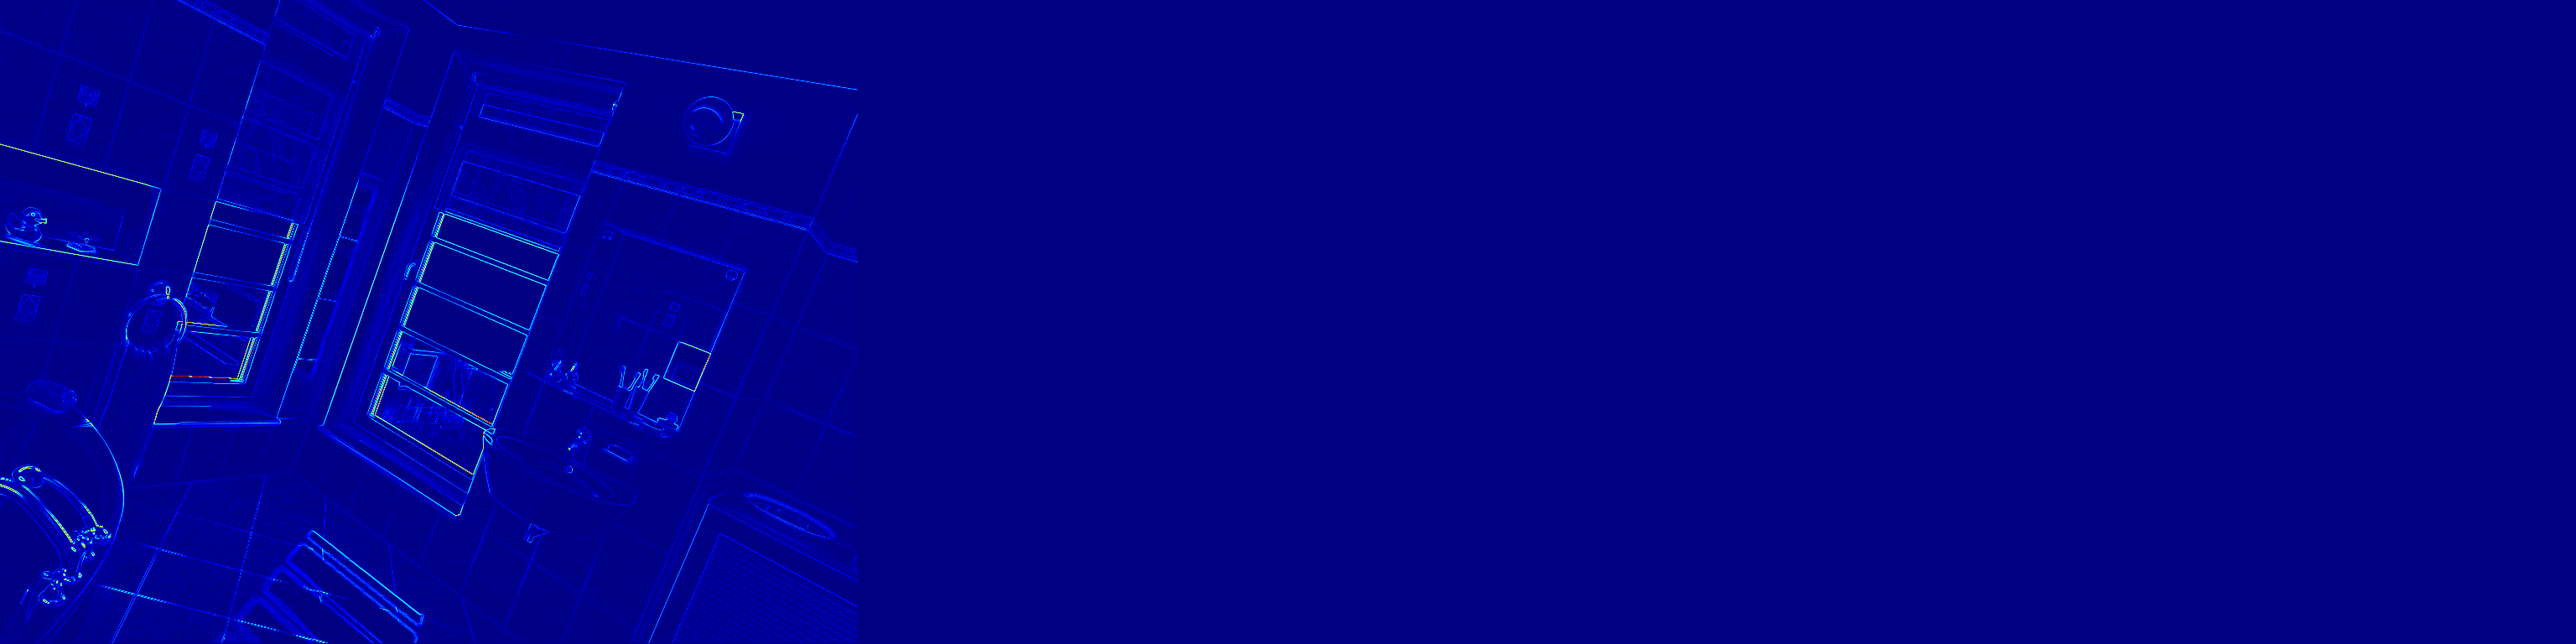
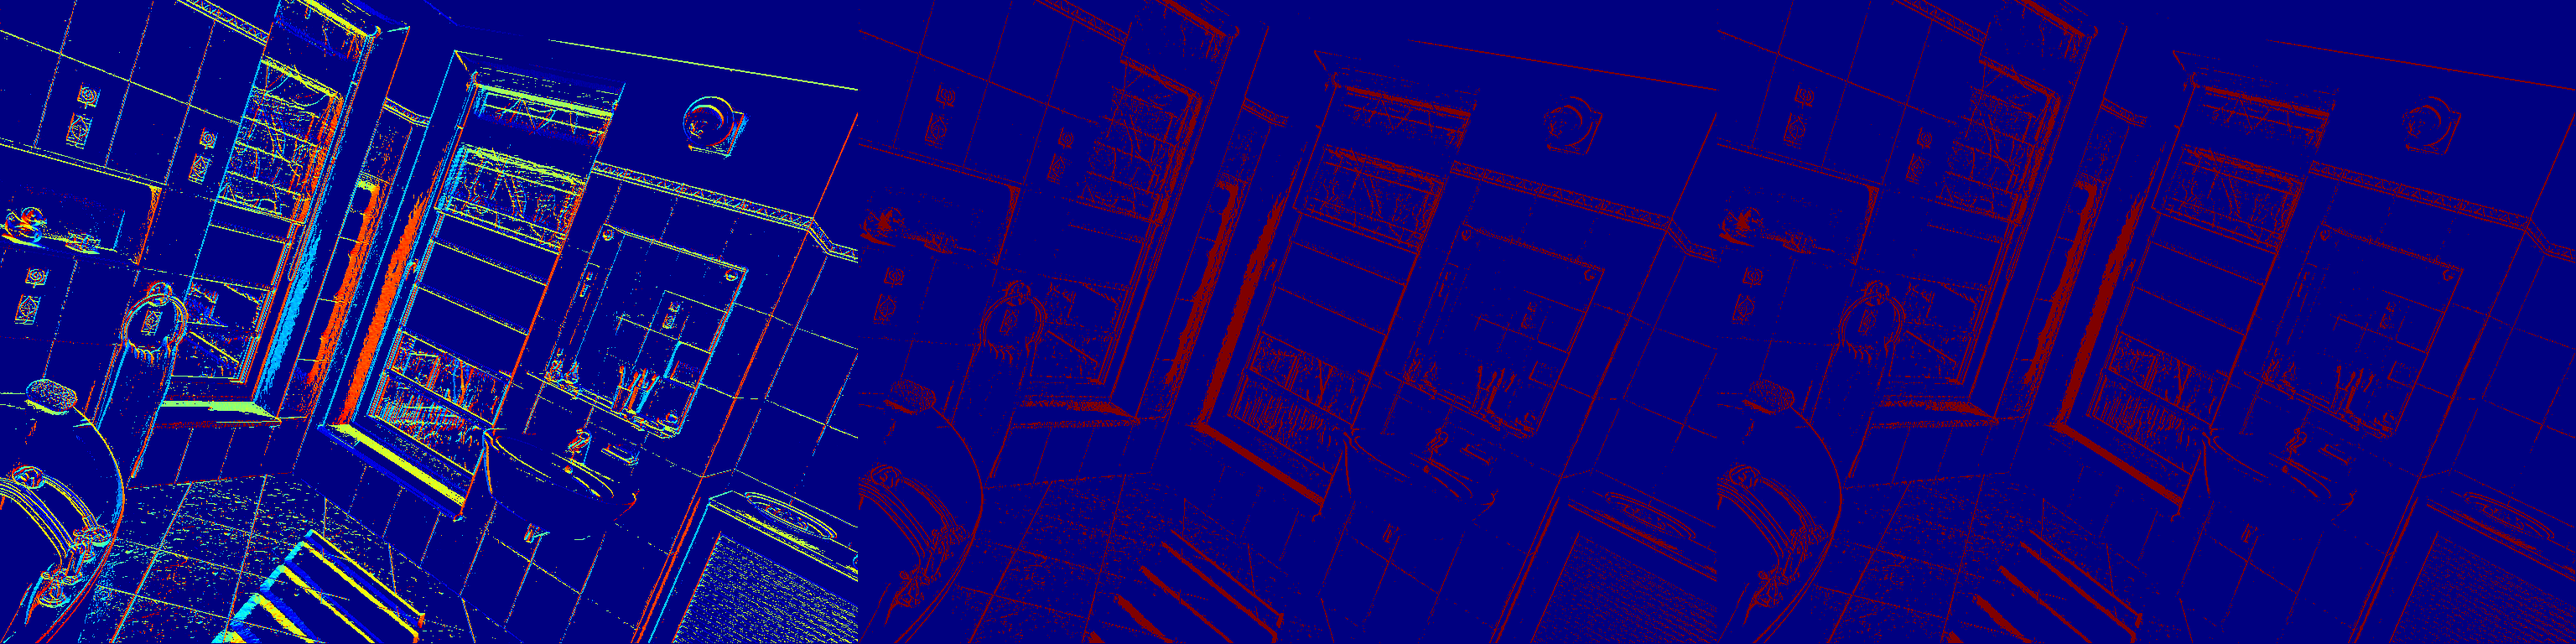
Use angle back

diff --git a/test/test_angle_gradient.cpp b/test/test_angle_gradient.cpp
@@ -9,15 +9,26 @@
 using namespace std::chrono;
 
 std::unique_ptr<GradientCalculator> gradientCalculator;
-cv::Mat grad_x, grad_y, bad_pixels;
+cv::Mat bad_pixels;
 
 cv::Mat draw_map(const cv::Mat& mat, bool use_min=true)
 {
     cv::Mat adjMap;
     double min, max;
     cv::minMaxLoc(mat, &min, &max);
+
+    printf("min diff: %f, max diff: %f\n", min, max);
+
     if (!use_min) min = 0;
-    mat.convertTo(adjMap, CV_8UC1, 255 / (max-min), -min);
+
+    if(max-min < 1e-6)
+    {
+      mat.convertTo(adjMap, CV_8UC1, 1, 0);
+    }
+    else
+    {
+      mat.convertTo(adjMap, CV_8UC1, 255 / (max-min), -min);
+    }
     cv::applyColorMap(adjMap, adjMap, cv::COLORMAP_JET);
     return adjMap;
 }
@@ -49,22 +60,13 @@ cv::Mat test(const std::function<void(cv::Mat&, cv::Mat&, cv::Mat&)>& angle_grad
     cv::Mat gray_img = cv::imread("assets/bathroom.jpg",
                                   cv::IMREAD_GRAYSCALE);
 
-    cv::Mat noise_img(gray_img.size(), gray_img.type());
-
-    cv::Mat angle_img(gray_img.size(), CV_64F);
-    cv::Mat gradient_img(gray_img.size(), CV_64F);
-
-    grad_x = cv::Mat(gray_img.size(), CV_64F);
-    grad_y = cv::Mat(gray_img.size(), CV_64F);
+    cv::Mat angle_img(gray_img.size(), CV_64F, -1024.0);
+    cv::Mat gradient_img(gray_img.size(), CV_64F, 0.0);
     bad_pixels = cv::Mat(gray_img.size(), CV_8U);
 
     long long total_time = 0;
     for (int i = 0; i < num_tests; ++i)
     {
-        // Do a pass with random noise to avoid any caching effects
-        cv::randn(noise_img, 125, 50);
-        angle_gradient(noise_img, angle_img, gradient_img);
-
         auto start = high_resolution_clock::now();
         angle_gradient(gray_img, angle_img, gradient_img);
         auto end = high_resolution_clock::now();
@@ -76,10 +78,10 @@ cv::Mat test(const std::function<void(cv::Mat&, cv::Mat&, cv::Mat&)>& angle_grad
     if(show)
     {
         cv::namedWindow(func_name, cv::WINDOW_NORMAL);
-        cv::imshow(func_name, draw_map(gradient_img, false));
+        cv::imshow(func_name, draw_map(angle_img, false));
     }
 
-    return gradient_img;
+    return angle_img;
 }
 
 
@@ -114,59 +116,108 @@ void opencv_angle_gradient(const cv::Mat& gray,
 
             modgrad_row[x] = norm;    // store gradient
 
-            if (norm <= threshold)  // norm too small, gradient no defined
-            {
-                angles_row[x] = NOTDEF;
-            }
-            else
-            {
-                angles_row[x] = cv::fastAtan2(float(gx), float(-gy)) * DEG_TO_RADS;  // gradient angle computation
-            }
+            if (norm <= threshold)
+              continue;
+
+//            angles_row[x] = std::atan2(float(gx), float(-gy));  // gradient angle computation
+            auto angle = cv::fastAtan2(float(gx), float(-gy)) * DEG_TO_RADS;  // gradient angle computation
+
+            // Convert from 0-2pi to -pi to pi
+            angles_row[x] = (angle <= CV_PI ? angle : angle - 2 * CV_PI);
 
         }
     }
 }
 
 
-void custom_angle_gradient(const cv::Mat& gray,
+void pytlsd_angle_gradient(const cv::Mat& gray,
+                           cv::Mat& ang_img,
+                           cv::Mat& grad_img) {
+
+    auto img_height = gray.rows;
+    auto img_width = gray.cols;
+    constexpr double NOTDEF = -1024.0;
+    constexpr double DEG_TO_RADS = CV_PI / 180;
+    auto threshold = 5.2262518595055063;
+
+    // Undefined the down and right boundaries
+    ang_img.row(img_height - 1).setTo(NOTDEF);
+    ang_img.col(img_width - 1).setTo(NOTDEF);
+
+    auto img_data = gray.data;
+
+    for(int y = 0; y < img_height - 1; ++y) {
+        for (int x = 0; x < img_width - 1; ++x) {
+            auto adr = y * img_width + x;
+
+            auto com1 = img_data[adr + img_width + 1] - img_data[adr];
+            auto com2 = img_data[adr + 1] - img_data[adr + img_width];
+
+            auto gx = com1 + com2; /* gradient x component */
+            auto gy = com1 - com2; /* gradient y component */
+            auto norm2 = gx * gx + gy * gy;
+            auto norm = sqrt( norm2 / 4.0 ); /* gradient norm */
+
+            grad_img.at<double>(y, x) = norm; /* store gradient */
+
+            if (norm <= threshold)
+                  continue;
+            ang_img.at<double>(y, x) = atan2(gx, -gy); /* gradient angle computation */
+        }
+    }
+
+}
+
+    void custom_angle_gradient(const cv::Mat& gray,
                               cv::Mat& ang_img,
                               cv::Mat& grad_img) {
     auto *imagePtr = reinterpret_cast<unsigned char *>(gray.data);
-    auto *grad_xPtr = reinterpret_cast<double *>(grad_x.data);
-    auto *grad_yPtr = reinterpret_cast<double *>(grad_y.data);
+    auto *tan_valuesPtr = reinterpret_cast<double *>(ang_img.data);
     auto *magnitudesPtr = reinterpret_cast<double *>(grad_img.data);
     auto *bad_pixelsPtr = reinterpret_cast<unsigned char *>(bad_pixels.data);
 
     gradientCalculator->calculateGradients(imagePtr,
                                            gray.cols, gray.rows,
-                                           grad_xPtr, grad_yPtr,
-                                           magnitudesPtr, bad_pixelsPtr);
+                                           tan_valuesPtr,
+                                           magnitudesPtr,
+                                           bad_pixelsPtr);
 }
 
 int main() {
     auto num_test = 10;
     auto opencv_gradient_img = test(opencv_angle_gradient,
                                     "opencv_angle_gradient",
-                                    num_test,
-                                    true);
+                                    num_test);
+
+    auto pytlsd_gradient_img = test(pytlsd_angle_gradient,
+                                    "pytlsd_angle_gradient",
+                                    num_test);
 
     double threshold = 5.2262518595055063;
     gradientCalculator = std::make_unique<GradientCalculator>(threshold);
     auto custom_gradient_img = test(custom_angle_gradient,
-                                     "custom_angle_gradientr",
+                                     "custom_angle_gradient",
                                      num_test);
 
 
-    auto diff = draw_image_diff(custom_gradient_img,
+    auto diff1 = draw_image_diff(custom_gradient_img,
                                  opencv_gradient_img,
-                                 "Custom Vs Opencv",
-                                 true);
+                                 "Custom Vs Opencv");
 
-    cv::Mat grad_color = draw_map(opencv_gradient_img);
+    auto diff2 = draw_image_diff(custom_gradient_img,
+                                    pytlsd_gradient_img,
+                                    "Custom Vs Pytlsd");
+
+    cv::Mat grad_opencv_color = draw_map(opencv_gradient_img, false);
+    cv::Mat grad_pytlsd_color = draw_map(pytlsd_gradient_img, false);
+    cv::Mat grad_custom_color = draw_map(custom_gradient_img, false);
+
+
     cv::Mat combined_diff;
-    cv::hconcat(grad_color, diff, combined_diff);
-    cv::hconcat(combined_diff, diff, combined_diff);
-    cv::imwrite("../../doc/img/gradient_diff.png", combined_diff);
+    cv::hconcat(grad_opencv_color, diff1, combined_diff);
+    cv::hconcat(combined_diff, diff2, combined_diff);
+//    cv::imwrite("../../doc/img/gradient_diff.png", combined_diff);
+    cv::imshow("Combined", combined_diff);
 
     cv::waitKey(0);
     return 0;

diff --git a/src/RegionDetector.cpp b/src/RegionDetector.cpp
@@ -121,40 +121,57 @@ void RegionDetector::register_point(int x, int y) {
     used_pixels_ptr[index] = 1;
 }
 
-bool RegionDetector::is_aligned(double dx, double dy, double dx2, double dy2, double tan_th) {
-    // Instead of using the angles, use dx/dy and dx2/dy2 to avoid the expensive atan2
-    auto dot = dx * dx2 + dy * dy2;
-    auto cross = dx * dy2 - dy * dx2;
-    auto tan = cross / dot;
-    return std::abs(tan) <= tan_th;
-}
-
-///** 3/2 pi */
-//#define M_3_2_PI 4.71238898038
-//
-///** 2 pi */
-//#define M_2__PI  6.28318530718
-//
 //bool RegionDetector::is_aligned(double dx, double dy, double dx2, double dy2, double tan_th) {
 //    // Instead of using the angles, use dx/dy and dx2/dy2 to avoid the expensive atan2
 //    auto dot = dx * dx2 + dy * dy2;
 //    auto cross = dx * dy2 - dy * dx2;
 //    auto tan = cross / dot;
-//    auto angle1 = std::atan2(dy, dx);
-//    auto angle2 = std::atan2(dy2, dx2);
-//
-//    auto theta = angle2 - angle1;
-//    if ( theta < 0.0 ) theta = -theta;
-//    if ( theta > M_3_2_PI )
-//    {
-//        theta -= M_2__PI;
-//        if ( theta < 0.0 ) theta = -theta;
-//    }
-//
-//    auto prec = M_PI * 22.5 / 180.0;
-//    printf("theta: %f, atan:%f, tan1: %f, theta_smaller: %d, tan smaller: %d\n", theta, atan(tan), tan, theta < prec, std::abs(tan) < tan_th);
-//    return  theta < prec;
+//    return std::abs(tan) <= tan_th;
 //}
+
+/** 3/2 pi */
+#define M_3_2_PI 4.71238898038
+
+/** 2 pi */
+#define M_2__PI  6.28318530718
+
+bool RegionDetector::is_aligned(double dx, double dy, double dx2, double dy2, double tan_th) {
+
+    printf("dx: %f, dy: %f, dx2: %f, dy2: %f\n", dx, dy, dx2, dy2);
+
+    auto dot = dx * dx2 + dy * dy2;
+    auto cross = dx * dy2 - dy * dx2;
+    auto norm_cross = std::sqrt(cross * cross);
+    auto tan = norm_cross / dot;
+    auto theta_angle = std::atan(tan);
+
+
+    auto angle1 = std::atan2(dy, dx);
+    auto angle2 = std::atan2(dy2, dx2);
+
+    auto theta = angle2 - angle1;
+    double theta2 = theta;
+    if ( theta2 < 0.0 ) theta2 = -theta;
+    if ( theta2 > M_3_2_PI )
+    {
+        theta2 -= M_2__PI;
+        if ( theta2 < 0.0 ) theta2 = -theta2;
+    }
+
+//    if ( theta_angle < 0.0 ) theta_angle = -theta_angle;
+//    if ( theta_angle > M_3_2_PI )
+//    {
+//        theta_angle -= M_2__PI;
+//        if ( theta_angle < 0.0 ) theta_angle = -theta_angle;
+//    }
+
+
+    auto prec = M_PI * 22.5 / 180.0;
+
+    printf("angle1: %f, angle2: %f, theta: %f, theta2: %f, thetha_angle: %f, is smaller: %d, is smaller2: %d\n",
+           angle1, angle2, theta, theta2, theta_angle, theta2 < prec, theta_angle < prec);
+    return  theta < prec;
+}
 
 
 void RegionDetector::reset_region() {

diff --git a/src/GradientCalculator.cpp b/src/GradientCalculator.cpp
@@ -6,12 +6,37 @@
 #include "algorithm"
 #include "GradientCalculator.h"
 
+// Ref: https://stackoverflow.com/questions/46210708/atan2-approximation-with-11bits-in-mantissa-on-x86with-sse2-and-armwith-vfpv4
+float fast_atan2f(float y, float x) {
+  float a, r, s, t, c, q, ax, ay, mx, mn;
+  ax = fabsf(x);
+  ay = fabsf(y);
+  mx = fmaxf(ay, ax);
+  mn = fminf(ay, ax);
+  a  = mn / mx;
+  /* Minimax polynomial approximation to atan(a) on [0,1] */
+  s = a * a;
+  c = s * a;
+  q = s * s;
+  r = 0.024840285f * q + 0.18681418f;
+  t = -0.094097948f * q - 0.33213072f;
+  r = r * s + t;
+  r = r * c + a;
+  /* Map to full circle */
+  if (ay > ax) r = 1.57079637f - r;
+  if (x < 0) r = 3.14159274f - r;
+  if (y < 0) r = -r;
+  return r;
+}
+
 void GradientCalculator::calculateGradients(const unsigned char *image,
                                             int width, int height,
-                                            double *grad_x,
-                                            double *grad_y,
+                                            double *angles,
                                             double *magnitudes,
                                             unsigned char *bad_pixels) const {
+
+  std::fill(angles, angles + width * height, -1024.0);
+
 #pragma omp parallel for collapse(2)
     // Compute the gradient on the image
     for (int y = 0; y < height - 1; y++) {
@@ -20,13 +45,18 @@ void GradientCalculator::calculateGradients(const unsigned char *image,
             const auto index = row_offset + x;
             const auto DA = image[index + width + 1] - image[index];
             const auto BC = image[index + 1] - image[index + width];
-            const auto dx = DA + BC; // We don't divide by 2 because we will do dx/dy
+            const auto dx = DA + BC;
             const auto dy = DA - BC;
-            grad_x[index] = dx;
-            grad_y[index] = dy;
             const auto norm = dx * dx + dy * dy;
-            bad_pixels[index] = norm <= threshold_squared;
+            const auto is_bad = norm <= threshold_squared;
+            if (is_bad) {
+                bad_pixels[index] = is_bad;
+                continue;
+            }
+            bad_pixels[index] = is_bad;
             magnitudes[index] = std::sqrt(norm)/2.0;
+            angles[index] = fast_atan2f((float) dx, (float) -dy);
+
         }
     }
 }

diff --git a/src/GradientCalculator.h b/src/GradientCalculator.h
@@ -15,8 +15,7 @@ public:
     explicit GradientCalculator(double threshold) : threshold(threshold) {threshold_squared = threshold * threshold *4;}
     void calculateGradients(const unsigned char *image,
                             int width, int height,
-                            double *grad_x,
-                            double *grad_y,
+                            double *tan_values,
                             double *magnitudes,
                             unsigned char *bad_pixels) const;
 
